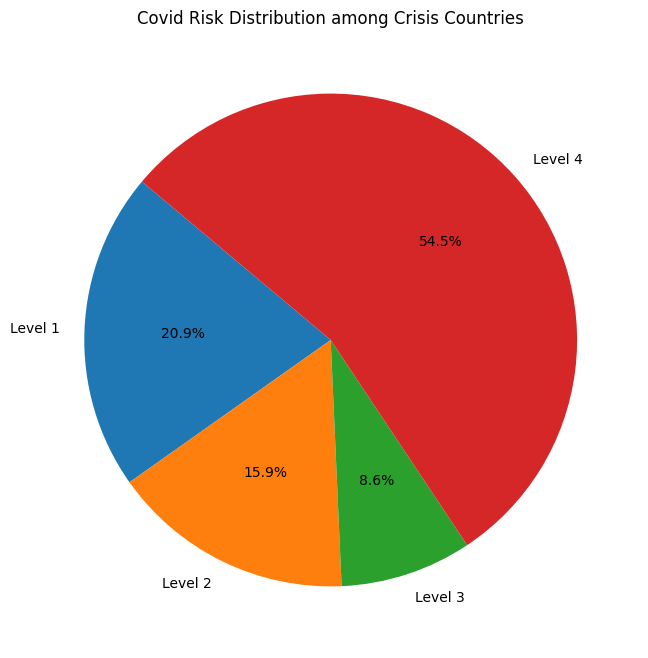
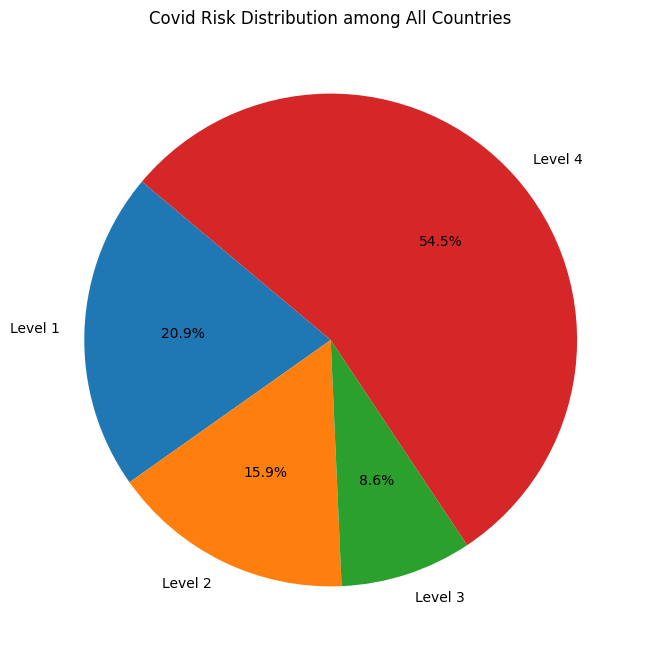
Added descriptions to README. Created new pie chart for just covid risk level across crisis countries.

Changed region(s): [[0.216, 0.0, 0.8025, 0.0608]]

diff --git a/README.md b/README.md
@@ -1,12 +1,49 @@
 # humanitarian-aid-priority
 This project contains the recommendation of how humanitarian aid should be prioritized in its distribution by using a data-driven approach. More specifically, an analysis was conducted on different countries, their populations, as well as their vulnerability towards Covid-19. For reference, this was made on April 14th, 2022.
 
-![Website_Home_Page](figures/website_homepage.png)
+# Mission Statement
 
-![Coronavirus_Cumulative_Cases](figures/coronavirus_cumulative_cases.png)
+<p align="center">
+  <img src="figures/website_homepage.png" alt="Website_Home_Page">
+</p>
 
-![Humanitarian_Aid_Needed](figures/humanitarian_aid_needed.png)
+# Cumulative Covid-19 Cases (April 2022)
 
-![Country_Covid_Risk_Distribution](figures/country_covid_risk_distribution.png)
+<p align="center">
+  <img src="figures/coronavirus_cumulative_cases.png" alt="Coronavirus_Cumulative_Cases">
+</p>
 
-![Humanitarian_Crisis_Risk_Evaluation](figures/humanitarian_crisis_risk_evaluation.png)
+# Humanitarian Aid Needed (2017-2022)
+
+<p align="center">
+  <img src="figures/humanitarian_aid_needed.png" alt="Humanitarian_Aid_Needed">
+</p>
+
+# Covid Risk Level Distribution across Countries
+
+On April 14th, 2022, Brown University's School of Public Health[https://globalepidemics.org/key-metrics-for-covid-suppression/] maintained a Covid-19 risk levels dashboard serving as a tool for the public to track the pandemic in real time. As such, they categorized four Covid-19 risk levels to countries based off of the number of new daily Covid-19 cases per 100,000 people.
+
+<p align="center">
+  <img src="figures/covid_risk_levels.png" alt="Covid_Risk_Level_Framework">
+</p>
+
+Using the Covid-19 daily case rate average, countries' Covid-19 risk levels were distributed as shown below. Amongst countries facing a humanitarian crisis at the time, the distribution of Covid-19 risk level was even worse.
+
+<table>
+  <tr>
+    <td>
+      <img src="figures/country_covid_risk_distribution.png" alt="Country_Covid_Risk_Distribution" style="width: 300px;"/>
+    </td>
+    <td>
+      <img src="figures/crisis_country_covid_risk_distribution.png" alt="Crisis_Country_Covid_Risk_Distribution" style="width: 300px;"/>
+    </td>
+  </tr>
+</table>
+
+# Humanitarian Aid Country Priority Evaluation
+
+A preliminary metric called the 'calculated risk' for which to be able to rank countries on their need for humanitarian aid was computed by multiplying the countries' populations  by their Covid-19 risk level. The reasoning behind doing so was based on the logic that the higher the population in a country facing a humanitarian crisis, the more people could be at risk of not only Covid-19, but also any domestic situation. Furthermore, the higher the Covid-19 risk level, the more dire it is to supress the spread of Covid-19 before it becomes uncontrollable. Using this proposed metric, we propose humanitarian aid be prioritized in its distribution according to the following graphic below.
+
+<p align="center">
+  <img src="figures/humanitarian_crisis_risk_evaluation.png" alt="Humanitarian_Crisis_Risk_Evaluation">
+</p>
